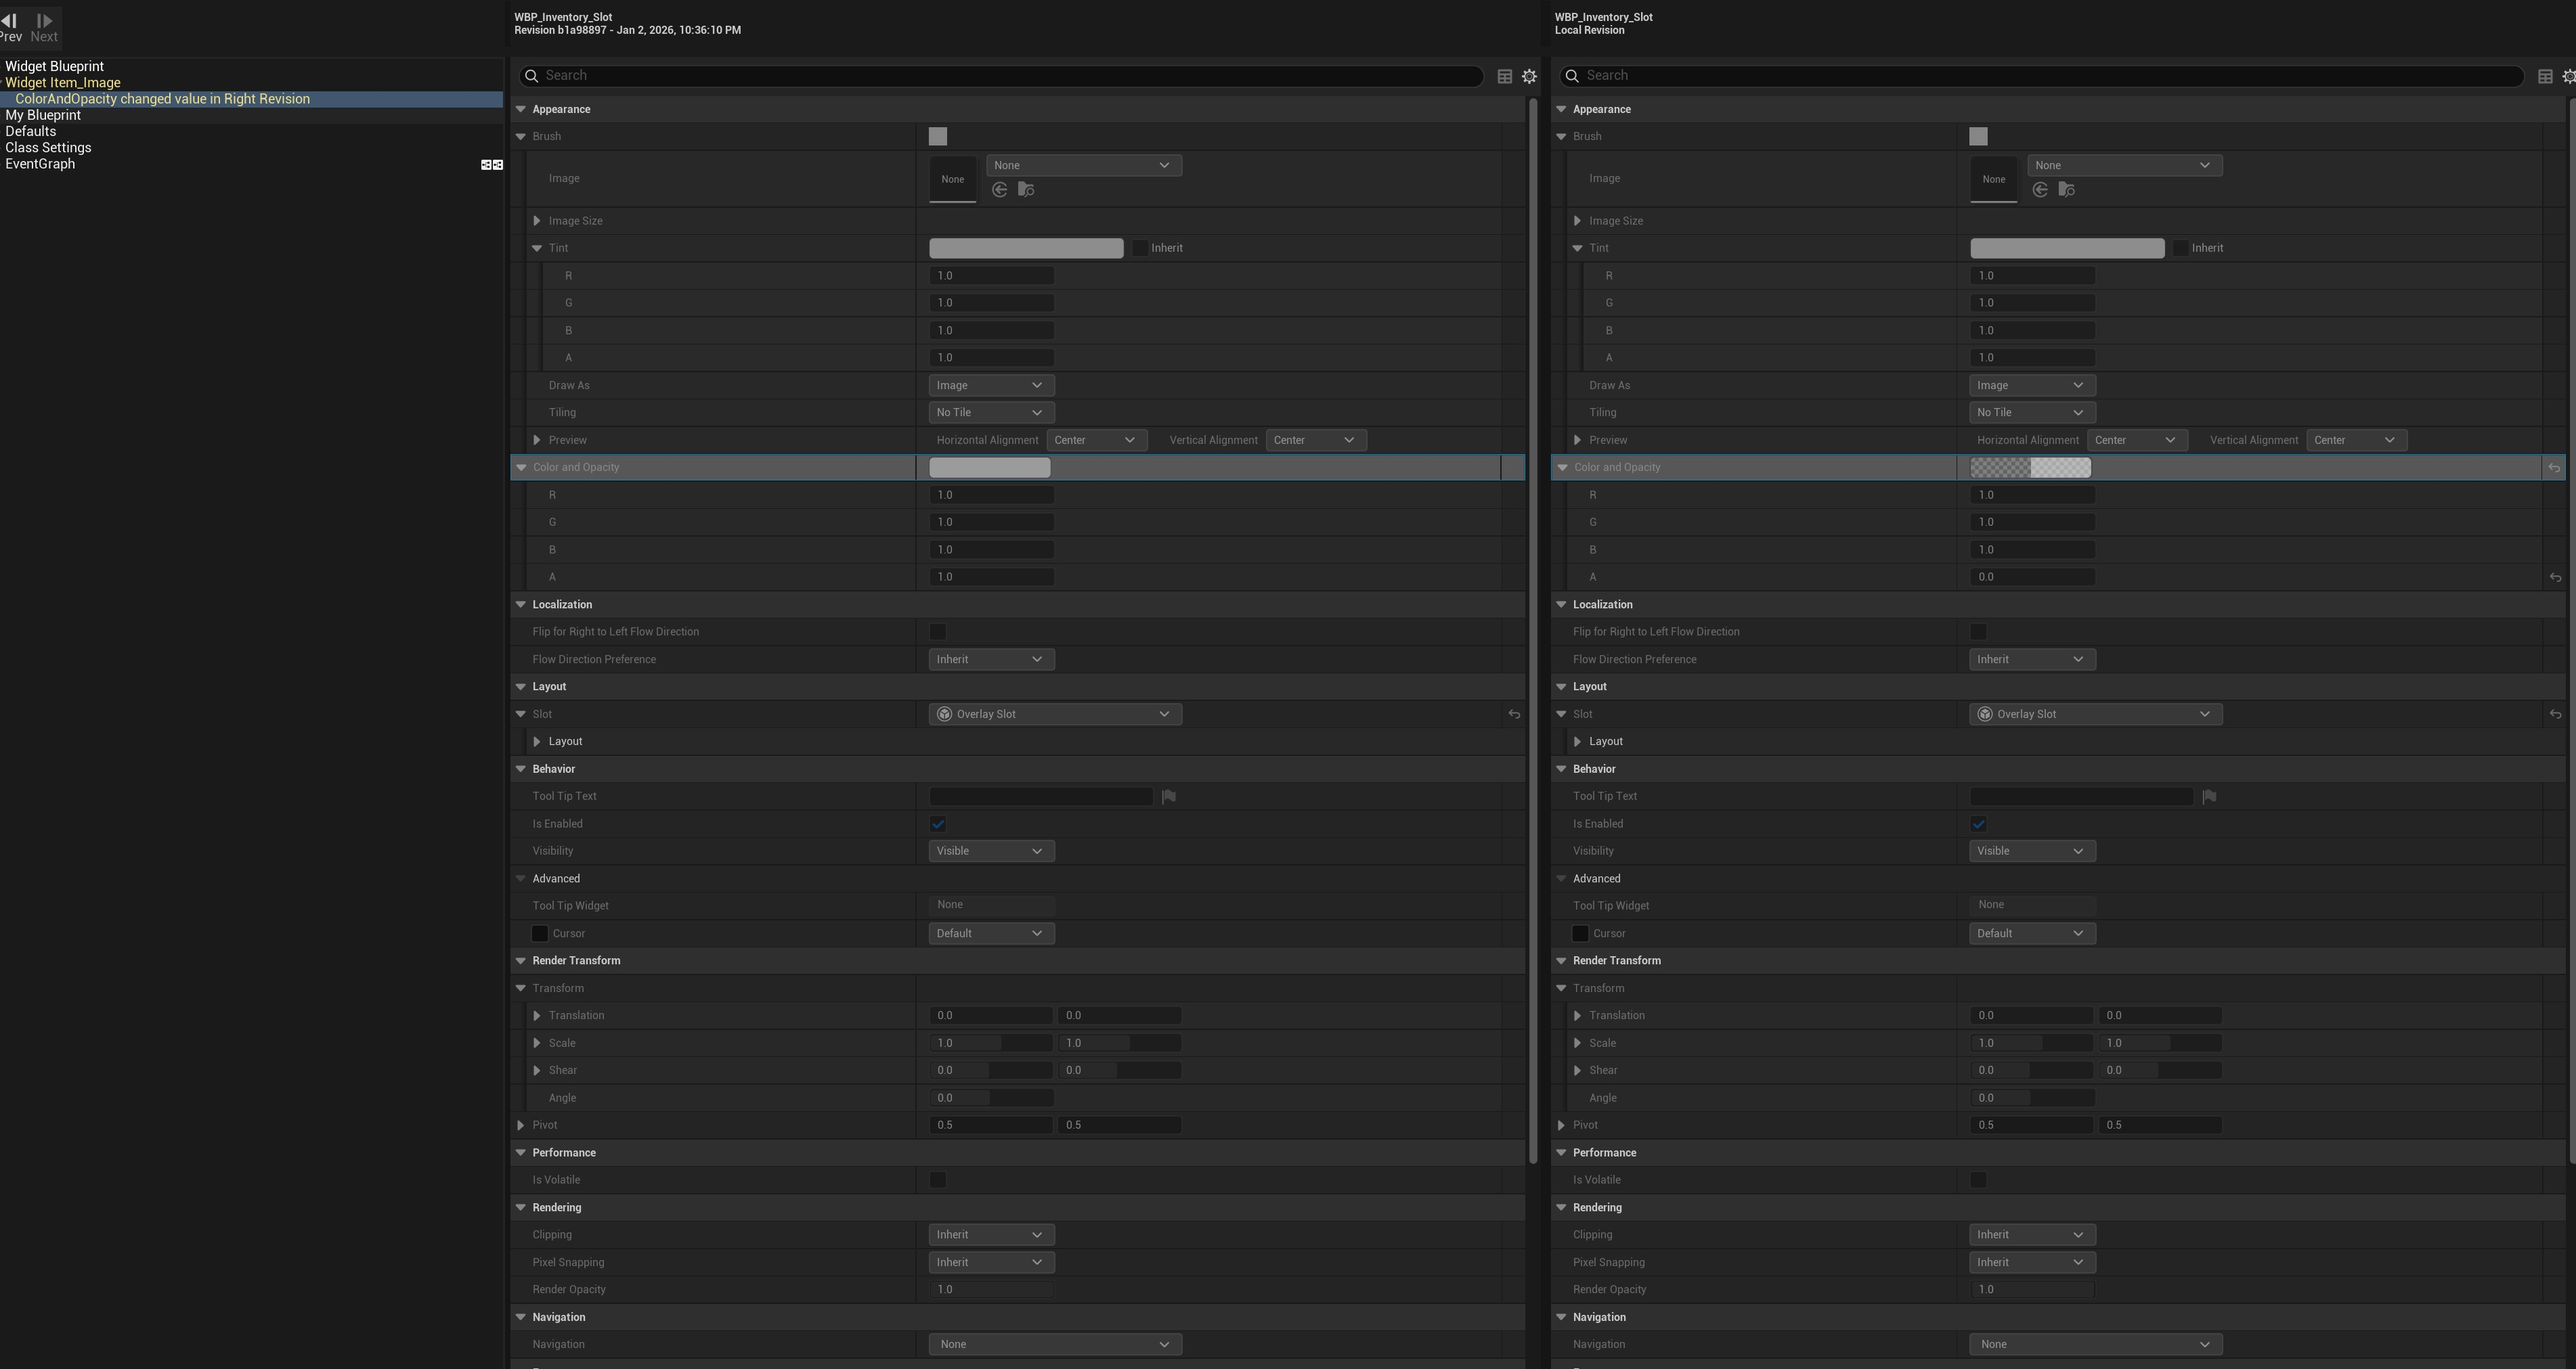
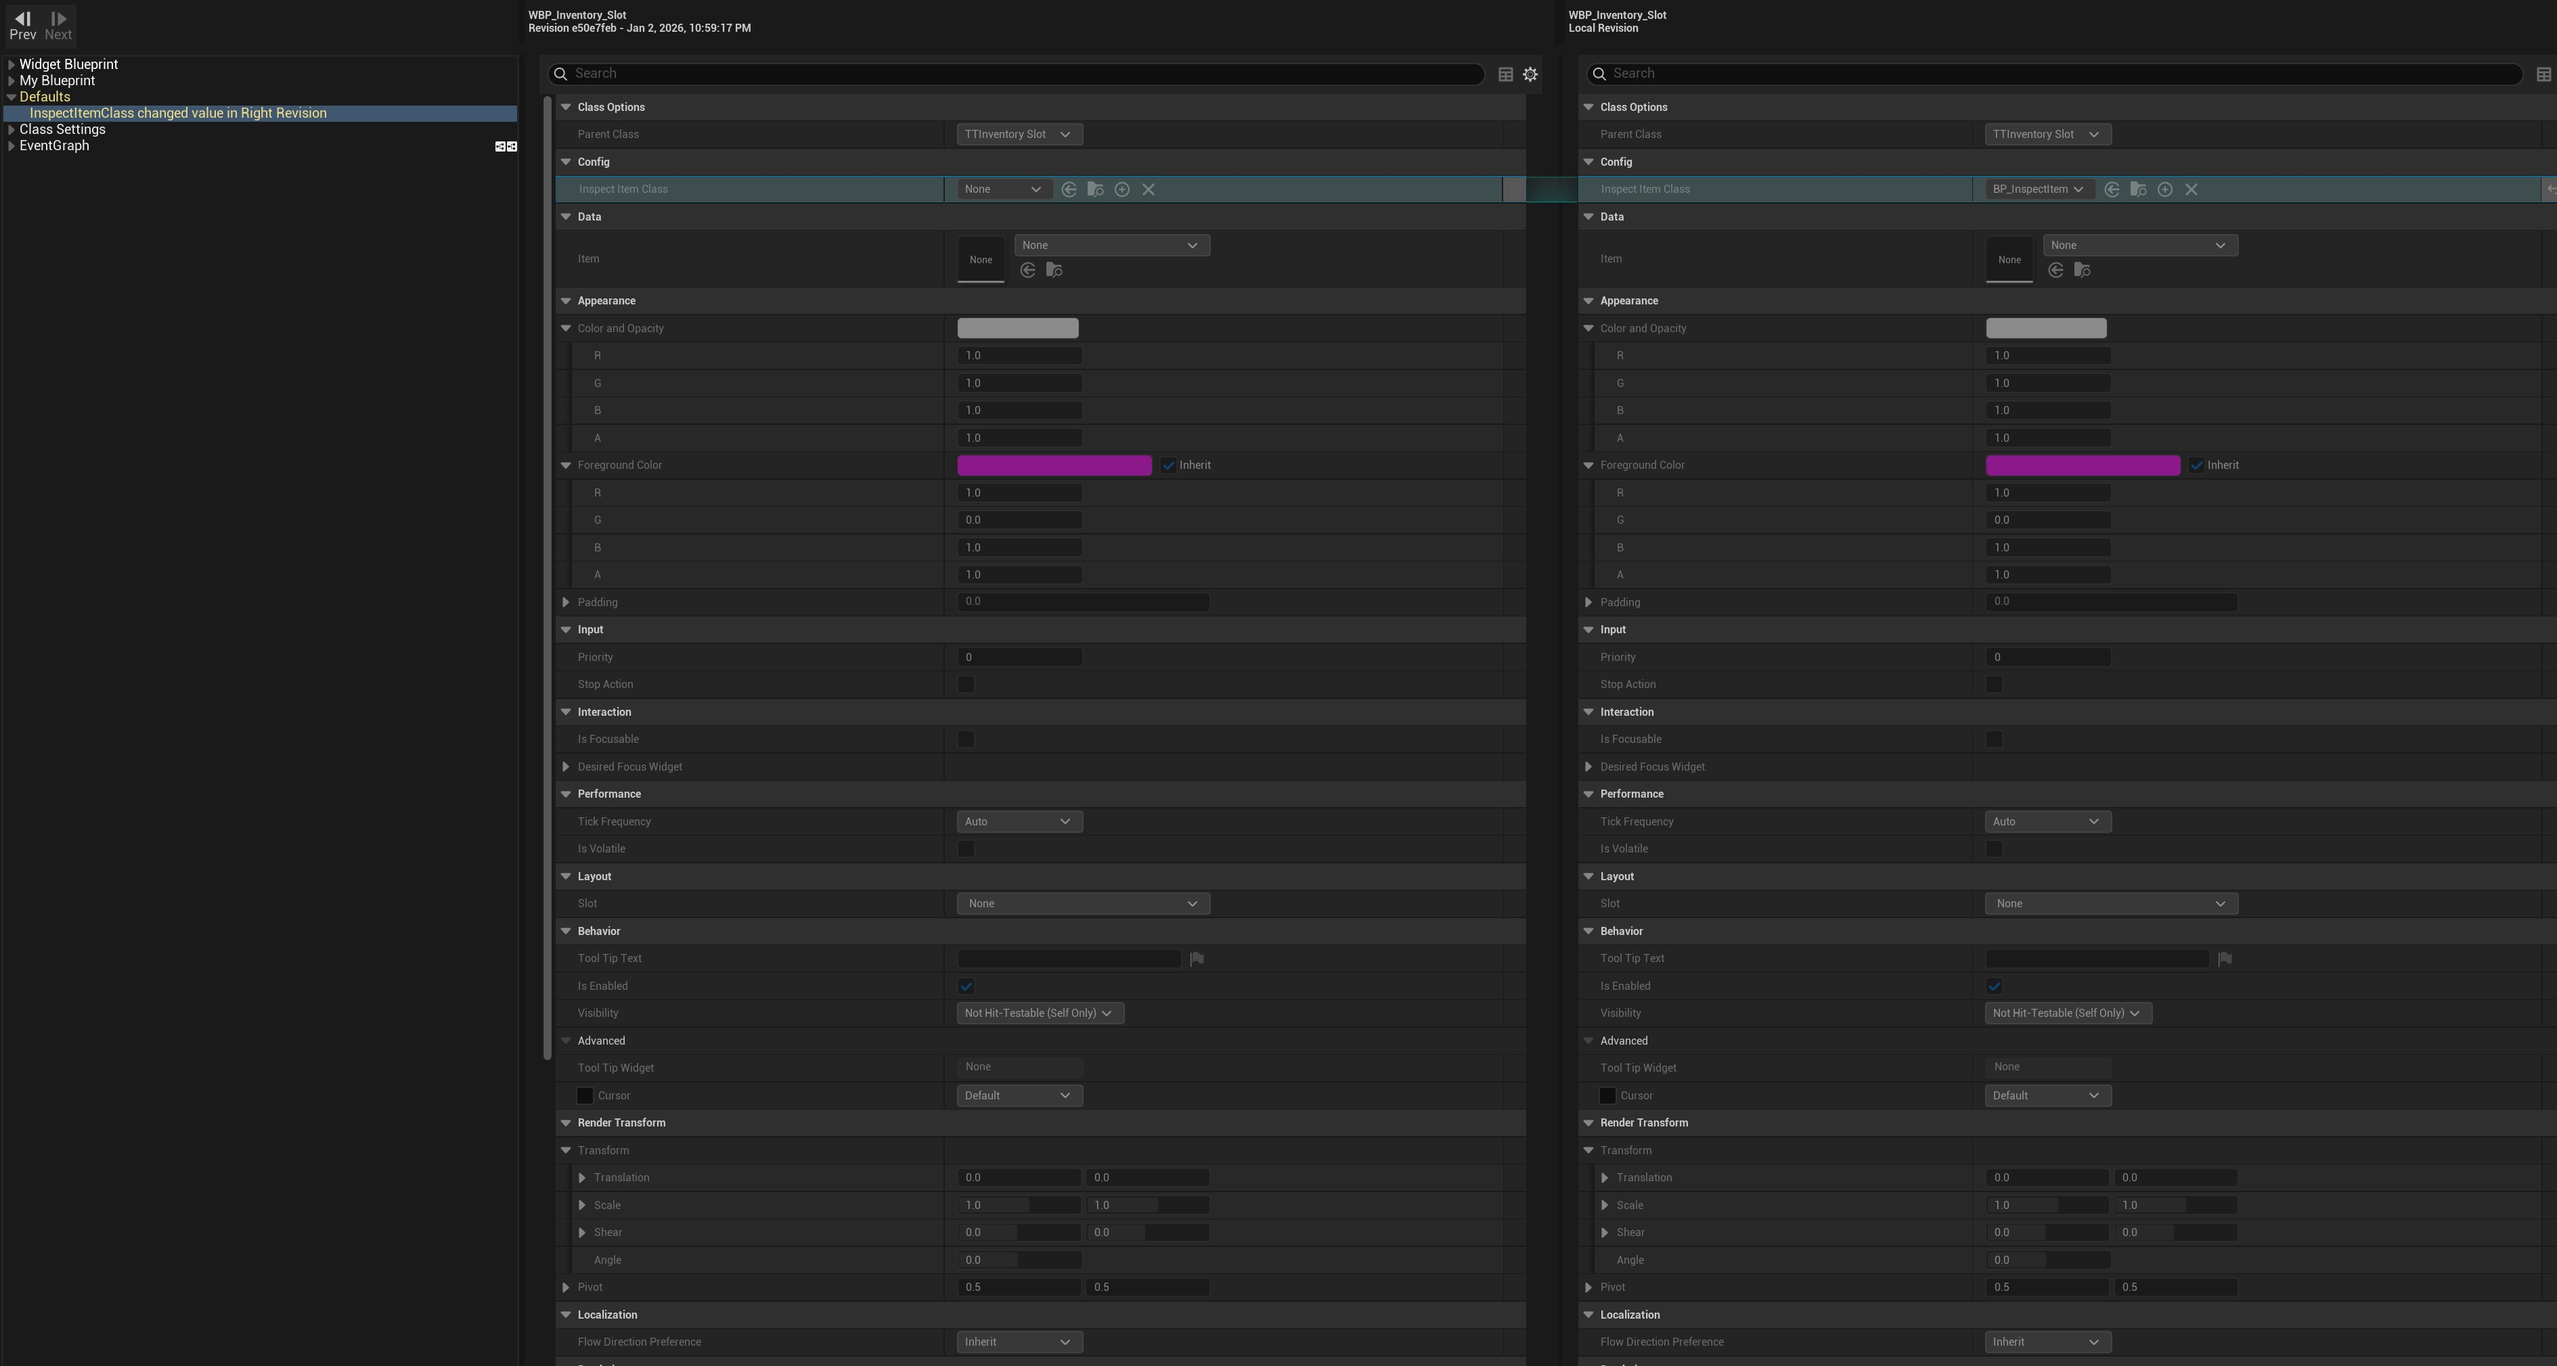
[Add] Item inspection Part1
+ Inspection event
+ TODO: UI visualization and input

diff --git a/Source/The_Turnatable/Private/LevelGeometry/TTInspectItem.cpp b/Source/The_Turnatable/Private/LevelGeometry/TTInspectItem.cpp
@@ -1,0 +1,47 @@
+// Fill out your copyright notice in the Description page of Project Settings.
+
+
+#include "LevelGeometry/TTInspectItem.h"
+
+#include "Components/SceneCaptureComponent2D.h"
+#include "UI/TTInspectWidget.h"
+
+
+// Sets default values
+ATTInspectItem::ATTInspectItem()
+{
+	// Set this actor to call Tick() every frame.  You can turn this off to improve performance if you don't need it.
+	PrimaryActorTick.bCanEverTick = true;
+	SceneComponent = CreateDefaultSubobject<USceneComponent>(TEXT("Default SceneComponent"));
+	RootComponent = SceneComponent;
+	SceneCaptureComponent2D = CreateDefaultSubobject<USceneCaptureComponent2D>(TEXT("SceneCaptureComponent2D"));
+	SceneCaptureComponent2D->SetupAttachment(SceneComponent);
+	SceneCaptureComponent2D->SetRelativeLocation(FVector(-100.0f, 0.0f, 0.0f));
+	SceneCaptureComponent2D->FOVAngle = 50.0f;
+	
+	StaticMeshComponent = CreateDefaultSubobject<UStaticMeshComponent>(TEXT("StaticMeshComponent"));
+	StaticMeshComponent->SetupAttachment(SceneComponent);
+}
+
+// Called when the game starts or when spawned
+void ATTInspectItem::BeginPlay()
+{
+	Super::BeginPlay();
+	
+}
+
+// Called every frame
+void ATTInspectItem::Tick(float DeltaTime)
+{
+	Super::Tick(DeltaTime);
+}
+
+void ATTInspectItem::InspectItem(UStaticMesh* Mesh, const FText& ItemName, const FText& ItemDescription)
+{
+	if (!InspectWidgetClass) return;
+	
+	StaticMeshComponent->SetStaticMesh(Mesh);
+	
+	UUserWidget* InspectWidget = CreateWidget<UUserWidget>(GetWorld(), InspectWidgetClass);
+	InspectWidget->AddToViewport();
+}

diff --git a/Source/The_Turnatable/Public/LevelGeometry/TTInspectItem.h b/Source/The_Turnatable/Public/LevelGeometry/TTInspectItem.h
@@ -1,0 +1,40 @@
+// Fill out your copyright notice in the Description page of Project Settings.
+
+#pragma once
+
+#include "CoreMinimal.h"
+#include "GameFramework/Actor.h"
+#include "TTInspectItem.generated.h"
+
+UCLASS()
+class THE_TURNATABLE_API ATTInspectItem : public AActor
+{
+	GENERATED_BODY()
+
+public:
+	UPROPERTY(EditAnywhere, BlueprintReadWrite, Category="Components")
+	USceneComponent* SceneComponent;
+	
+	UPROPERTY(EditAnywhere, BlueprintReadWrite, Category="Components")
+	USceneCaptureComponent2D* SceneCaptureComponent2D;
+
+	UPROPERTY(EditAnywhere, BlueprintReadWrite, Category="Components")
+	UStaticMeshComponent* StaticMeshComponent;
+
+	UPROPERTY(EditAnywhere, BlueprintReadWrite, Category="Config")
+	TSubclassOf<class UTTInspectWidget> InspectWidgetClass;
+	
+	// Sets default values for this actor's properties
+	ATTInspectItem();
+	
+
+protected:
+	// Called when the game starts or when spawned
+	virtual void BeginPlay() override;
+
+public:
+	// Called every frame
+	virtual void Tick(float DeltaTime) override;
+
+	void InspectItem(UStaticMesh* Mesh, const FText& ItemName, const FText& ItemDescription = FText::GetEmpty());
+};

diff --git a/Source/The_Turnatable/Public/UI/TTInventorySlot.h b/Source/The_Turnatable/Public/UI/TTInventorySlot.h
@@ -6,6 +6,7 @@
 #include "Blueprint/UserWidget.h"
 #include "TTInventorySlot.generated.h"
 
+class ATTInspectItem;
 class UTTItem;
 /**
  * 
@@ -15,10 +16,14 @@ class THE_TURNATABLE_API UTTInventorySlot : public UUserWidget
 {
 	GENERATED_BODY()
 public:
+
+	UPROPERTY(EditAnywhere, BlueprintReadWrite, Category="Config")
+	TSubclassOf<class  ATTInspectItem> InspectItemClass;
+	
 	UFUNCTION(BlueprintCallable)
 	void Onclick();
 	
 protected:
-	UPROPERTY(EditAnywhere, BlueprintReadWrite, Category="Components")
+	UPROPERTY(EditInstanceOnly, BlueprintReadWrite, Category="Data")
 	UTTItem* Item;
 };

diff --git a/Source/The_Turnatable/Private/UI/TTInventorySlot.cpp b/Source/The_Turnatable/Private/UI/TTInventorySlot.cpp
@@ -4,12 +4,15 @@
 #include "UI/TTInventorySlot.h"
 
 #include "Core/Inventory/TTItem.h"
+#include "LevelGeometry/TTInspectItem.h"
 
 void UTTInventorySlot::Onclick()
 {
 	if (Item)
 	{
 		UE_LOG(LogTemp, Warning, TEXT ("Item: %s"), *Item->ItemName.ToString());
+		ATTInspectItem* InspectItem = GetWorld()->SpawnActor<ATTInspectItem>(InspectItemClass);
+		InspectItem->InspectItem(Item->ItemMesh,Item->ItemName);
 	}
 	else
 	{

diff --git a/Source/The_Turnatable/Public/Core/Inventory/TTItem.h b/Source/The_Turnatable/Public/Core/Inventory/TTItem.h
@@ -12,7 +12,7 @@
 UCLASS()
 class THE_TURNATABLE_API UTTItem : public UDataAsset
 {
-	GENERATED_BODY()
+	GENERATED_BODY()	
 
 public:
 	// The display name of the item
@@ -26,4 +26,7 @@ public:
 	// The icon representing the item in the inventory
 	UPROPERTY(EditAnywhere, BlueprintReadOnly, Category="Item")
 	UTexture2D* ItemIcon;
+
+	UPROPERTY(EditAnywhere, BlueprintReadOnly, Category="Item")
+	UStaticMesh* ItemMesh;
 };

diff --git a/Source/The_Turnatable/Public/UI/TTInspectWidget.h b/Source/The_Turnatable/Public/UI/TTInspectWidget.h
@@ -1,0 +1,17 @@
+// Fill out your copyright notice in the Description page of Project Settings.
+
+#pragma once
+
+#include "CoreMinimal.h"
+#include "Blueprint/UserWidget.h"
+#include "TTInspectWidget.generated.h"
+
+/**
+ * 
+ */
+UCLASS()
+class THE_TURNATABLE_API UTTInspectWidget : public UUserWidget
+{
+	GENERATED_BODY()
+	
+};

diff --git a/Source/The_Turnatable/Private/UI/TTInspectWidget.cpp b/Source/The_Turnatable/Private/UI/TTInspectWidget.cpp
@@ -1,0 +1,4 @@
+// Fill out your copyright notice in the Description page of Project Settings.
+
+
+#include "UI/TTInspectWidget.h"
